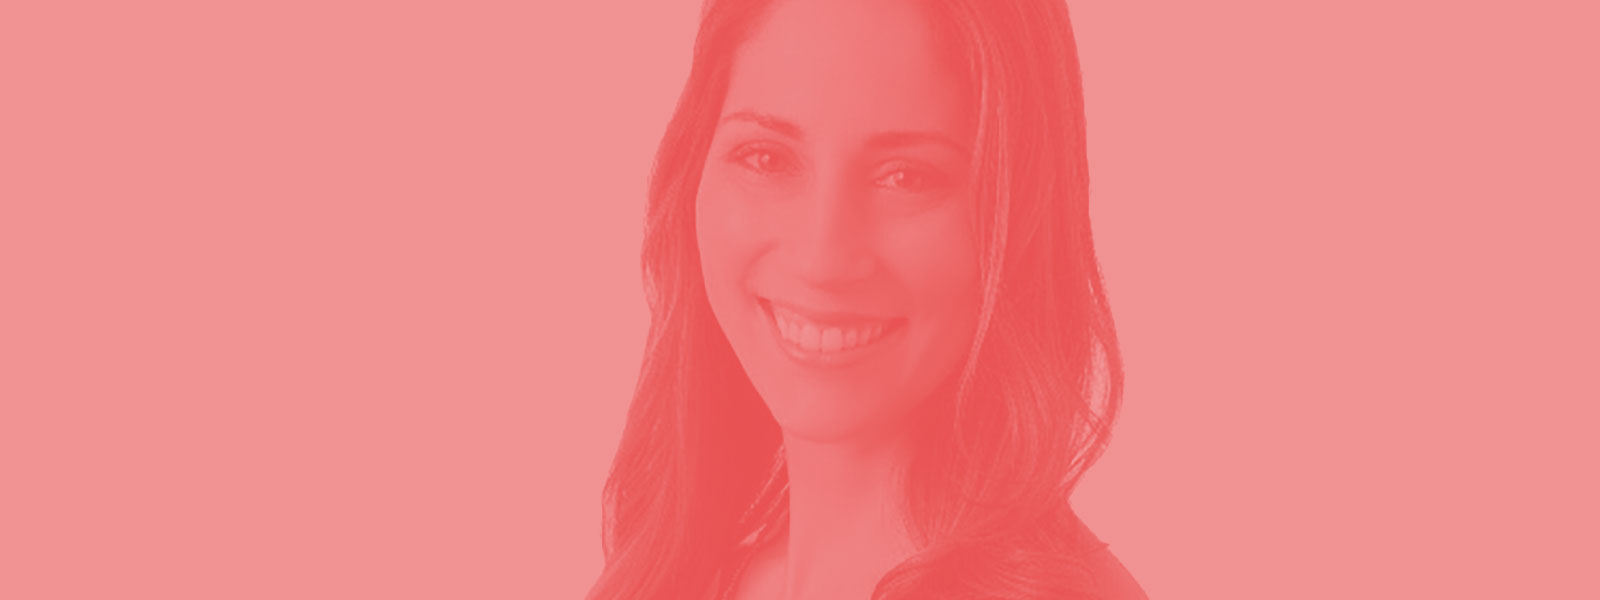
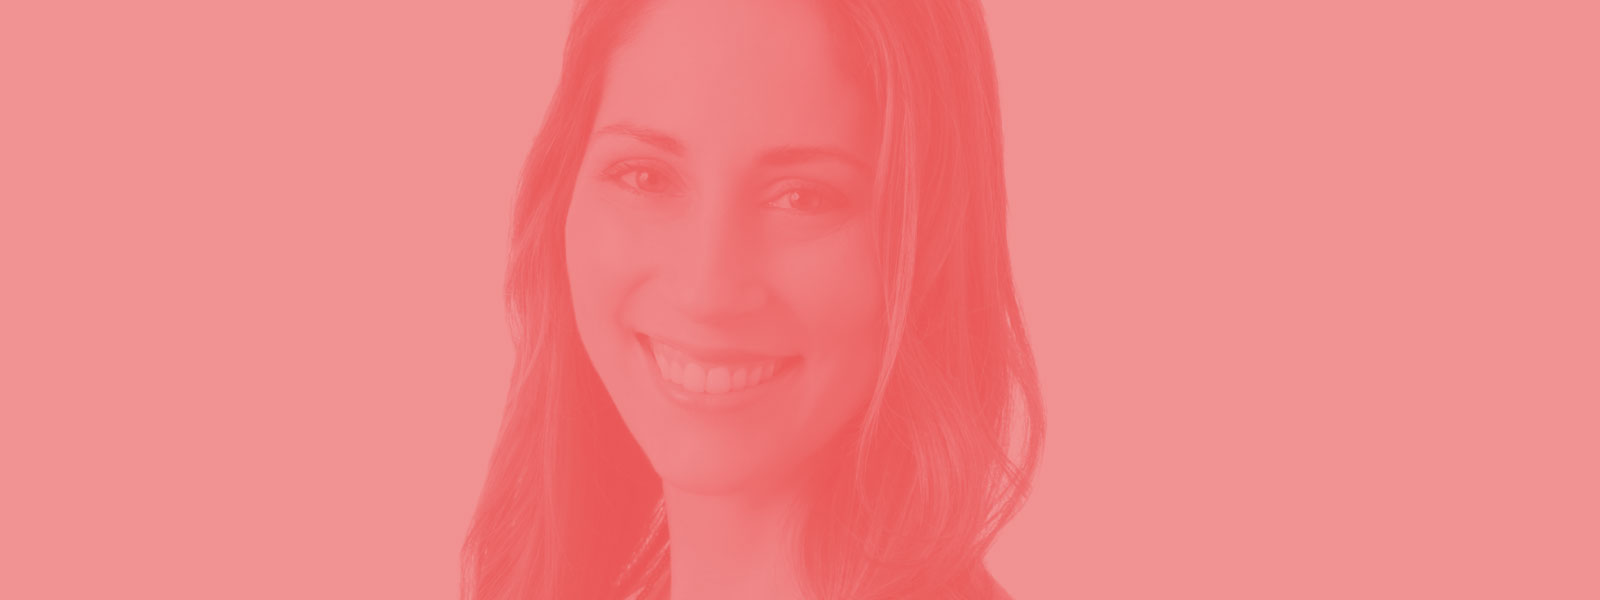
Lauren Goode Updated Bio and Image

Changed region(s): [[0.2812, 0.0, 0.7188, 1.0], [0.5625, 0.36, 0.5938, 0.42], [0.5, 0.3, 0.5312, 0.36]]

diff --git a/site/speakers.html b/site/speakers.html
@@ -39,7 +39,8 @@
           <img src="/images/site/speakers/lauren_goode.jpg" alt="" / class="hide-on-desktops">
           <h3 class="text-l text-thin">Lauren Goode</h3>
           <p class="sc text-s text-medium pad-bottom"><a href="https://twitter.com/laurengoode" target="_blank">@laurengoode</a></p>
-          <p class="text-s text-medium pad-bottom">Lauren Goode is a senior reviewer for <a href="http://recode.net/" target="_blank">RE/Code</a>, where she writes about consumer technology, new product developments and technology trends. Lauren previously worked at AllThingsD, The Wall Street Journal and&nbsp;ESPN.
+          <p class="text-s text-medium pad-bottom">
+          Lauren Goode is the Managing Editor of Reviews &amp; Product Coverage at <a href="http://recode.net/" target="_blank">RE/Code</a>, where she writes about consumer technology, new product developments and technology trends. She previously worked at AllThingsD, The Wall Street Journal Digital Network and ESPN. 
           </p>
         </div>
       </div>
